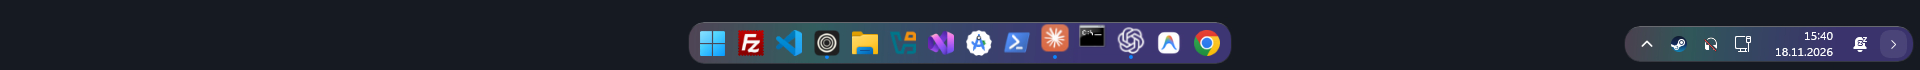
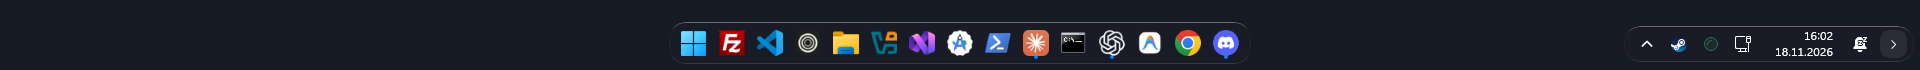
docs: showcase the default Explorer taskbar

Changed region(s): [[0.3438, 0.3143, 0.6562, 0.9143], [0.8438, 0.3714, 1.0, 0.8857]]

diff --git a/README.md b/README.md
@@ -6,7 +6,7 @@
 
 [English quick start](#quick-start) · [Türkçe kullanım kılavuzu](docs/kullanim.md)
 
-<img src="docs/screenshots/now-feed.png" alt="DinamikAda island with media and activity controls" width="760" />
+<img src="docs/screenshots/explorer-taskbar.png" alt="DinamikAda’s default Explorer taskbar with separate app row and system tray" />
 
 </div>
 
@@ -48,18 +48,7 @@ Open **AI Quota** in the expanded island and use the add button for your provide
 
 Cards indicate when they show a saved reading, are waiting for quota data, or need a new sign-in.
 
-![AI Quota tab showing separate sample account cards and usage windows](docs/screenshots/widgets-ai-quota.png)
-
-![Claude usage windows and a ChatGPT card that needs reconnection](docs/screenshots/ai-quota-claude.png)
-
-## Screenshots
-
-| Media and commands | System and dock |
-| --- | --- |
-| ![Compact media controls](docs/screenshots/compact-media.png) | ![System control center](docs/screenshots/control-center.png) |
-| ![Keyboard command palette](docs/screenshots/command-palette.png) | ![System telemetry](docs/screenshots/system-telemetry.png) |
-| ![Per-app audio mixer](docs/screenshots/audio-mixer.png) | ![Standalone dock and running app indicators](docs/screenshots/bottom-dock.png) |
-| ![Standalone dock calendar](docs/screenshots/dock-calendar-popup.png) | ![Standalone dock tray overflow](docs/screenshots/dock-tray-popup.png) |
+## Other tools
 
 The top island also includes a clipboard vault, file shelf, OCR, LAN file sharing, hardware and software brightness controls, lyrics and per-app audio routing.
 

diff --git a/docs/kullanim.md b/docs/kullanim.md
@@ -16,7 +16,7 @@
 5. Sağ uçtaki oka tıklayarak sistem tepsisini küçült. Aynı düğme tepsiyi geri açar. Gizli simgelere erişmek için önce tepsiyi aç. Ses ayarı için **Win+A** kullan.
 6. Windows’a albüm kapağı ileten bir oynatıcıda müzik aç. Üst ada, uygulama sırası, sağ tepsi ve Başlat menüsü albüm renklerini alır. Alt çubukta renkler oynatma boyunca hareket eder.
 
-![Explorer uygulama sırası ve sağ tepsi](screenshots/explorer-taskbar.png)
+![Explorer uygulama sırası ve sağ tepsinin sade görünümü](screenshots/explorer-taskbar.png)
 
 ![Alt kenardan açılan uygulama sırası](screenshots/explorer-dock.gif)
 
@@ -43,10 +43,6 @@ powershell -NoProfile -ExecutionPolicy Bypass -File .\scripts\setup-explorer-tas
 4. **ChatGPT / Codex** kartında sağlayıcının döndürdüğü 5 saatlik ve haftalık Codex kotasını ve yenilenme zamanlarını ayrı ayrı görebilirsin.
 5. **Claude** kartında canlı ölçüm için uyumlu bir Claude Code oturumu gerekir. Karttaki kullanım simgesi tarayıcıda Claude kullanım sayfasını açar.
 6. **Antigravity** kartındaki model havuzlarını ayrı ayrı kontrol et. Kayıtlı veri gösteriliyorsa son ölçüm zamanı kartta yer alır.
-
-![Örnek hesaplarla AI Kota ekranı](screenshots/widgets-ai-quota.png)
-
-![Claude kota pencereleri ve yeniden bağlanması gereken ChatGPT kartı](screenshots/ai-quota-claude.png)
 
 ## Genel kontroller
 
